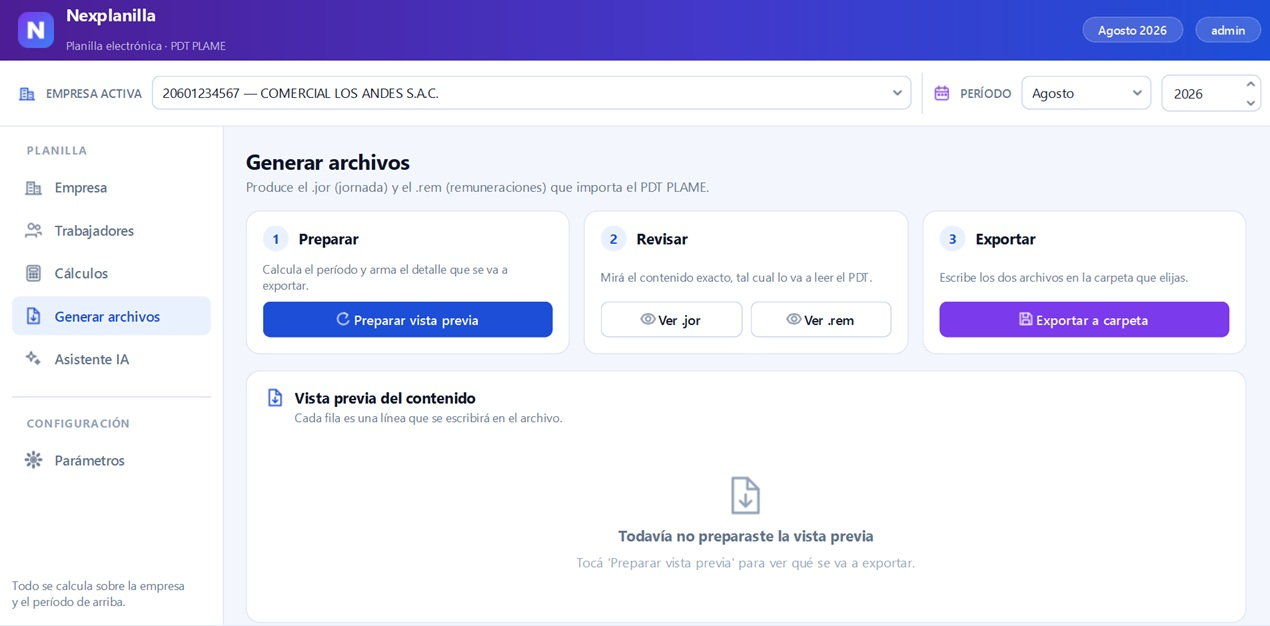
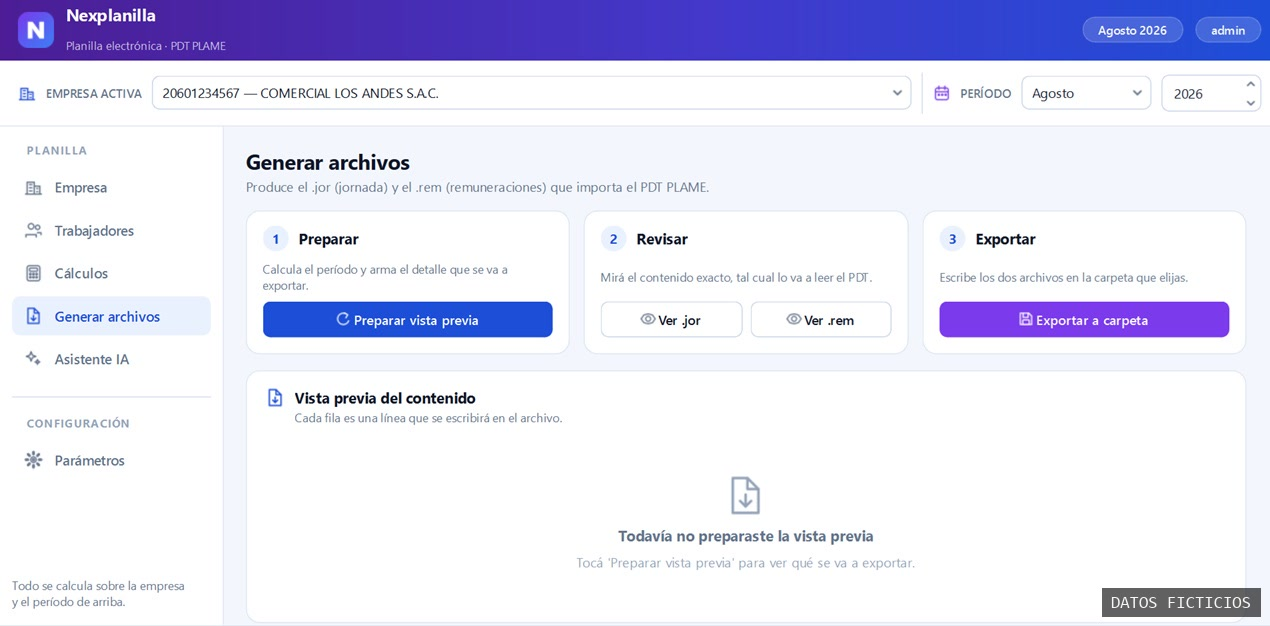
Advertir que los datos de las capturas de Nexplanilla son ficticios
El aviso va en dos sitios porque uno solo no basta: un recuadro
encima de la galeria, y la marca "DATOS FICTICIOS" grabada dentro
de cada imagen. La marca es la que importa: el recuadro desaparece
al ampliar una captura y tambien si alguien se la descarga.

El aviso es un campo opcional de demos.js, asi que sirve para
cualquier demo de fotos futura. Las capturas sin marcar quedan en
demos/sin-marca, fuera del repositorio.

Changed region(s): [[0.8598, 0.9409, 1.0, 1.0]]

diff --git a/js/demos.js b/js/demos.js
@@ -12,6 +12,11 @@
    Ejemplo de "fotos":
      src: [{img:"demos/paso-1.png", pie:"Carga por lote"},
            {img:"demos/paso-2.png", pie:"Resultado"}]
+
+   aviso: opcional. Sale como recuadro destacado encima de las capturas.
+          Sirve para advertir que los datos son ficticios. Ojo: no se ve
+          al ampliar una foto ni si alguien la descarga, así que la misma
+          advertencia va grabada dentro de cada imagen.
    ===================================================================== */
 var DEMOS = {
 
@@ -48,7 +53,8 @@ var DEMOS = {
       { img: "demos/nexplanilla-asistente.jpg",
         pie: "Asistente de IA: interpreta el pedido del cliente y propone los cambios. Nada se modifica sin confirmación." }
     ],
-    nota:   "Capturas de la versión en desarrollo, con datos de prueba. Sin RUCs, DNIs ni sueldos reales."
+    aviso:  "Todos los datos que se ven en estas capturas son ficticios: empresas, RUCs, nombres, DNIs y sueldos están inventados para no exponer información de ningún cliente. La aplicación es real; los datos no.",
+    nota:   "Capturas de la versión en desarrollo."
   }
 
 };

diff --git a/css/estilos.css b/css/estilos.css
@@ -324,6 +324,11 @@ a.card{text-decoration:none;display:block}
 .modal-body video,.modal-body iframe{width:100%;border:1px solid var(--hair);background:#000;display:block}
 .modal-body video{aspect-ratio:16/9}
 .modal-body iframe{height:min(62vh,620px)}
+.shots-aviso{
+  font-family:var(--mono);font-size:10px;line-height:1.8;color:var(--text-2);
+  border:1px solid var(--hair-2);border-left:2px solid var(--dia);
+  padding:11px 14px;margin:0 0 16px;background:var(--bg);
+}
 .shots{display:grid;gap:14px}
 .shots figure{margin:0}
 .shots img{width:100%;border:1px solid var(--hair);cursor:zoom-in}

diff --git a/js/sitio.js b/js/sitio.js
@@ -150,7 +150,9 @@
     } else if (d.tipo === 'fotos' && d.src && d.src.length) {
       mKind.textContent = '/ capturas';
       mFull.hidden = false;
-      var h = '<div class="shots">';
+      var h = '';
+      if (d.aviso) { h += '<p class="shots-aviso">' + esc(d.aviso) + '</p>'; }
+      h += '<div class="shots">';
       d.src.forEach(function (s) {
         h += '<figure><img src="' + esc(s.img) + '" alt="' + esc(s.pie || '') + '" loading="lazy">' +
              (s.pie ? '<figcaption>' + esc(s.pie) + '</figcaption>' : '') + '</figure>';
